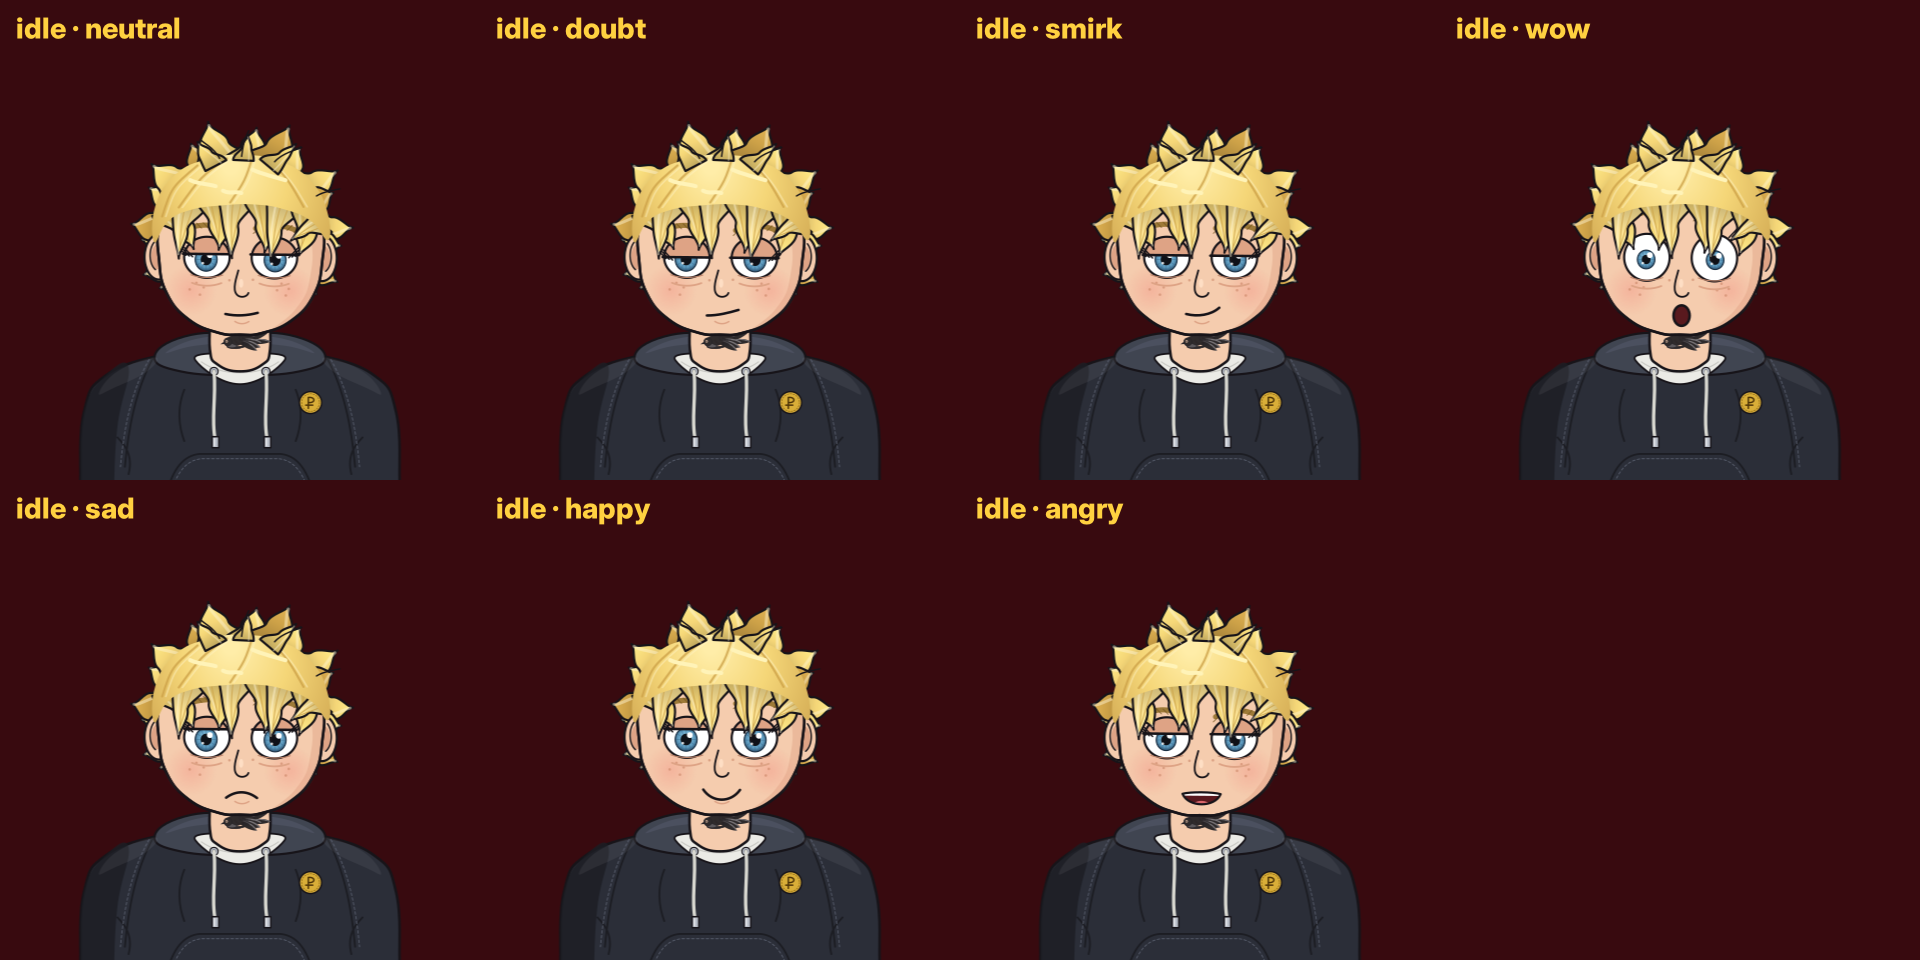
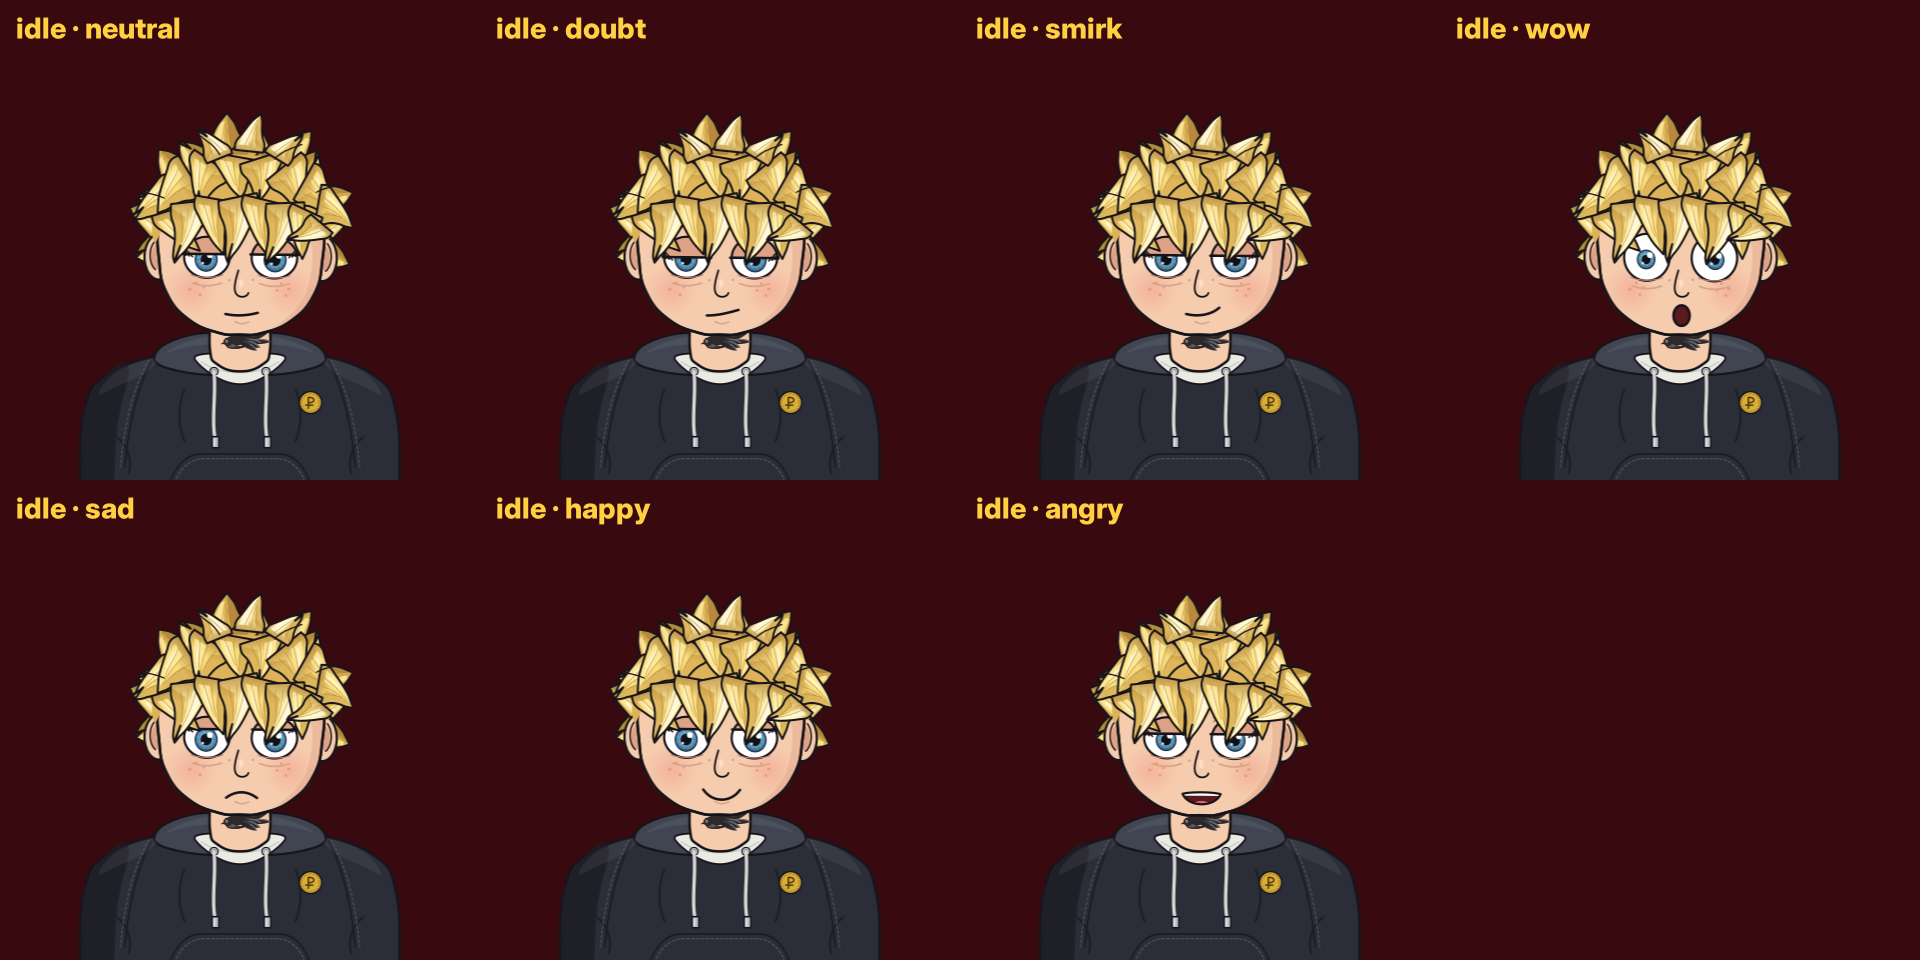
Narrator: hand-drawn ragged volumetric hair from layered cel-shaded clumps
Claude-Session: https://claude.ai/code/session_01Etcvs7yDvc4b4CGVjdTrvf

diff --git a/videos/narrator/narrator.py b/videos/narrator/narrator.py
@@ -428,86 +428,154 @@ def _lock(ctx, bx, by, ang, ln, wd, bend, fill, lw=6):
     ctx.stroke()
 
 
-# messy crown: (angle deg, length, width, bend) — uneven on purpose
-CROWN = [(-128, 95, 46, 30), (-112, 140, 52, -35), (-96, 120, 50, 40), (-80, 175, 58, -25), (-63, 150, 55, 50),
-         (-47, 205, 60, -40), (-30, 160, 56, 35), (-14, 230, 62, -55), (2, 185, 58, 45), (17, 240, 64, 60),
-         (33, 170, 56, -45), (49, 215, 60, 40), (64, 140, 54, -30), (80, 185, 56, 55), (97, 125, 50, -40),
-         (113, 150, 50, 35), (128, 90, 44, -25)]
+H_DEEP = (0.70, 0.52, 0.22)
+H_SHADOW = (0.86, 0.70, 0.34)
+H_BASE = (0.97, 0.86, 0.50)
+H_LIGHT = (1.0, 0.92, 0.62)
+H_SHINE = (1.0, 0.98, 0.86)
 
 
-def _hair_back(ctx, t, sway):
-    _ellipse(ctx, 0, -660, 240, 232)
-    _c(ctx, HAIR_SH)
+def _clump_path(ctx, bx, by, ang, ln, wd, bend, fork):
+    """Ragged tapered hair clump; fork > 0 splits the tip into two points."""
+    dx, dy = math.sin(ang), -math.cos(ang)
+    nx, ny = math.cos(ang), math.sin(ang)
+
+    def P(u, v):  # u along the clump 0..1, v across -1..1 (scaled by width that tapers)
+        w = wd * (1 - u ** 1.7) * (0.92 + 0.08 * math.sin(u * 9))
+        b = bend * u * u * 1.4
+        return (bx + dx * ln * u + nx * (v * w + b), by + dy * ln * u + ny * (v * w + b))
+    tipL = P(1.0, 0)
+    left = [P(u, -1) for u in (0.0, 0.2, 0.4, 0.6, 0.78, 0.9)]
+    right = [P(u, 1) for u in (0.9, 0.78, 0.6, 0.4, 0.2, 0.0)]
+    _smooth(ctx, left, closed=False)
+    if fork:
+        notch = P(0.8 - fork * 0.08, 0.2)
+        t2 = P(0.93, 0.6)
+        ctx.line_to(tipL[0] - nx * wd * 0.1, tipL[1] - ny * wd * 0.1)
+        ctx.line_to(*notch)
+        ctx.line_to(t2[0] + dx * ln * 0.05, t2[1] + dy * ln * 0.05)
+    else:
+        ctx.line_to(*tipL)
+    ctx.line_to(*right[0])
+    x0, y0 = right[0]
+    for k in range(len(right) - 1):  # smooth back along the right edge
+        p0 = right[max(0, k - 1)]
+        p1, p2 = right[k], right[k + 1]
+        p3 = right[min(len(right) - 1, k + 2)]
+        c1 = (p1[0] + (p2[0] - p0[0]) * 0.22, p1[1] + (p2[1] - p0[1]) * 0.22)
+        c2 = (p2[0] - (p3[0] - p1[0]) * 0.22, p2[1] - (p3[1] - p1[1]) * 0.22)
+        ctx.curve_to(c1[0], c1[1], c2[0], c2[1], p2[0], p2[1])
+    ctx.close_path()
+    return P
+
+
+def _clump(ctx, bx, by, ang, ln, wd, bend, fork=0, tone=0, lw=5.5, shade_side=1):
+    """Cel-shaded clump: base fill, shadow band on one side, light band, shine streak, inner strand lines, outline."""
+    base = (H_SHADOW, H_BASE, H_LIGHT)[tone]
+    P = _clump_path(ctx, bx, by, ang, ln, wd, bend, fork)
+    _c(ctx, base)
+    ctx.fill_preserve()
+    ctx.save()
+    ctx.clip()
+    # shadow band along one edge + darker root
+    s = shade_side
+    ctx.move_to(*P(0, s * 1.2))
+    for u in (0.25, 0.5, 0.75, 1.0):
+        ctx.line_to(*P(u, s * 0.25))
+    for u in (1.0, 0.75, 0.5, 0.25, 0.0):
+        ctx.line_to(*P(u, s * 1.3))
+    ctx.close_path()
+    _c(ctx, H_SHADOW if tone else H_DEEP, 0.9)
     ctx.fill()
-    for i, (ang, ln, wd, bend) in enumerate(CROWN):
-        a = math.radians(ang + sway * (1 + i % 3) + 2.5 * math.sin(t * 1.2 + i * 0.7))
-        bx, by = 205 * math.sin(a), -660 - 205 * math.cos(a)
-        _lock(ctx, bx, by, a, ln * 0.55, wd * 1.15, bend * 0.35 + 5 * math.sin(t * 1.5 + i), HAIR_SH if i % 3 == 0 else HAIR)
+    g = cairo.LinearGradient(*P(0, 0), *P(0.35, 0))
+    g.add_color_stop_rgba(0, H_DEEP[0], H_DEEP[1], H_DEEP[2], 0.75)
+    g.add_color_stop_rgba(1, H_DEEP[0], H_DEEP[1], H_DEEP[2], 0)
+    ctx.set_source(g)
+    ctx.paint()
+    # light band on the other side
+    ctx.move_to(*P(0.15, -s * 0.15))
+    for u in (0.35, 0.6, 0.85):
+        ctx.line_to(*P(u, -s * (0.05 + 0.1 * u)))
+    for u in (0.85, 0.6, 0.35, 0.15):
+        ctx.line_to(*P(u, -s * 0.75))
+    ctx.close_path()
+    _c(ctx, H_LIGHT if tone < 2 else H_SHINE, 0.85)
+    ctx.fill()
+    # shine streak
+    ctx.move_to(*P(0.22, -s * 0.45))
+    a, b = P(0.4, -s * 0.5), P(0.55, -s * 0.42)
+    ctx.curve_to(a[0], a[1], a[0], a[1], b[0], b[1])
+    _c(ctx, H_SHINE, 0.95)
+    ctx.set_line_width(max(2.5, wd * 0.09))
+    ctx.set_line_cap(cairo.LINE_CAP_ROUND)
+    ctx.stroke()
+    ctx.restore()
+    # inner strand lines
+    for v, u1 in ((-0.35, 0.82), (0.1, 0.92), (0.5, 0.7)):
+        a, b, c_ = P(0.12, v), P(0.5, v * 0.7), P(u1, v * 0.35)
+        ctx.move_to(*a)
+        ctx.curve_to(b[0], b[1], b[0], b[1], c_[0], c_[1])
+    _c(ctx, H_DEEP, 0.7)
+    ctx.set_line_width(2.2)
+    ctx.stroke()
+    _clump_path(ctx, bx, by, ang, ln, wd, bend, fork)
+    _c(ctx, OUT)
+    ctx.set_line_width(lw)
+    ctx.set_line_join(cairo.LINE_JOIN_ROUND)
+    ctx.stroke()
 
 
-FRINGE = [  # (base x, base y, angle rad (0=up, pi=down), length, width, bend, colour index)
-    (-200, -735, 2.80, 120, 44, -45, 0), (-140, -760, 3.00, 150, 50, 40, 1), (-75, -770, 3.30, 135, 48, -38, 0),
-    (-10, -775, 2.95, 160, 52, 50, 1), (55, -770, 3.40, 140, 48, -45, 0), (120, -760, 3.10, 155, 50, 38, 1),
-    (180, -740, 3.55, 120, 44, -40, 0), (220, -705, 3.80, 90, 36, 30, 1),
+# back silhouette: (angle deg from up, length, width, bend, fork)
+HAIR_BACK = [(-118, 120, 62, 26, 0), (-100, 160, 70, -30, 1), (-82, 190, 72, 34, 0), (-64, 175, 70, -28, 1),
+             (-46, 215, 74, 30, 0), (-28, 185, 70, -36, 1), (-10, 235, 76, 28, 0), (8, 200, 72, -30, 1),
+             (26, 245, 76, 40, 0), (44, 195, 72, -34, 1), (62, 215, 72, 30, 0), (80, 170, 68, -28, 1),
+             (98, 175, 66, 34, 0), (116, 120, 60, -24, 1)]
+# top layer: clumps flowing from the crown whorl over the skull towards the hairline
+HAIR_TOP = [(-185, -780, -1.75, 120, 62, -40, 1), (-140, -835, -2.15, 130, 66, -34, 0), (-80, -870, -2.55, 120, 64, -30, 1),
+            (-15, -885, -2.95, 110, 62, -26, 0), (50, -882, 2.85, 115, 62, 28, 1), (115, -860, 2.45, 125, 66, 32, 0),
+            (170, -820, 2.05, 120, 62, 36, 1), (210, -760, 1.7, 105, 56, 34, 0)]
+# spiky clumps standing up on the crown
+HAIR_SPIKES = [(-60, -880, -0.45, 95, 40, -18, 1), (20, -900, 0.05, 105, 42, 16, 0), (95, -880, 0.55, 95, 40, 20, 1)]
+FRINGE = [  # (base x, base y, angle rad (0=up, pi=down), length, width, bend, fork)
+    (-200, -735, 2.80, 130, 50, -45, 0), (-140, -760, 3.00, 160, 56, 40, 1), (-75, -770, 3.30, 145, 54, -38, 0),
+    (-10, -775, 2.95, 170, 58, 50, 1), (55, -770, 3.40, 150, 54, -45, 0), (120, -760, 3.10, 165, 56, 38, 1),
+    (180, -740, 3.55, 125, 50, -40, 0), (220, -705, 3.80, 95, 42, 30, 1),
 ]
 
 
+def _hair_back(ctx, t, sway):
+    _ellipse(ctx, 0, -665, 245, 235)
+    _c(ctx, H_DEEP)
+    ctx.fill()
+    for i, (ang, ln, wd, bend, fork) in enumerate(HAIR_BACK):
+        a = math.radians(ang + sway * (1 + i % 3) + 2.0 * math.sin(t * 1.2 + i * 0.7))
+        bx, by = 195 * math.sin(a), -665 - 195 * math.cos(a)
+        _clump(ctx, bx, by, a, ln * 0.62, wd, bend * 0.5 + 4 * math.sin(t * 1.5 + i), fork, 0,
+               shade_side=1 if ang < 0 else -1)
+
+
 def _hair_front(ctx, t, sway):
-    cols = (HAIR, (0.99, 0.89, 0.58))
-    for i, (bx, by, ang, ln, wd, bend, ci) in enumerate(FRINGE):
-        b = bend + sway * 8 + 5 * math.sin(t * 1.6 + i * 1.1)
-        a = ang + 0.03 * math.sin(t + i)
-        _lock(ctx, bx, by, a, ln, wd, b, cols[ci], 6)
-        dx, dy = math.sin(a), -math.cos(a)
-        nx, ny = math.cos(a), math.sin(a)
-        for off in (-0.25, 0.2):
-            ctx.move_to(bx + nx * wd * off, by + ny * wd * off)
-            ctx.curve_to(bx + dx * ln * 0.4 + nx * (b * 0.5 + wd * off), by + dy * ln * 0.4 + ny * (b * 0.5 + wd * off),
-                         bx + dx * ln * 0.7 + nx * b * 0.8, by + dy * ln * 0.7 + ny * b * 0.8,
-                         bx + dx * ln * 0.85 + nx * b * 0.9, by + dy * ln * 0.85 + ny * b * 0.9)
-        _c(ctx, HAIR_SH, 0.8)
-        ctx.set_line_width(3)
-        ctx.stroke()
-    # hair mass on the skull, filled without an outline so locks seem to grow out of it
+    # skull cover under the top clumps (no flat helmet visible: clumps sit on it edge to edge)
     _smooth(ctx, [(-236, -650), (-234, -748), (-180, -835), (-90, -878), (10, -890), (110, -872), (190, -820),
                   (234, -740), (238, -660), (190, -712), (120, -742), (40, -755), (-50, -752), (-140, -738),
                   (-200, -706)], closed=True)
-    g = cairo.RadialGradient(-30, -860, 20, 0, -780, 300)
-    g.add_color_stop_rgb(0, 1.0, 0.93, 0.66)
-    g.add_color_stop_rgb(0.45, *HAIR)
-    g.add_color_stop_rgb(1, 0.82, 0.66, 0.32)
-    ctx.set_source(g)
+    _c(ctx, H_SHADOW)
     ctx.fill()
-    # parting grooves between big locks on the top, for volume
-    for (x0, y0, x1, y1, x2, y2) in ((-40, -880, -110, -830, -170, -745), (30, -885, 10, -820, -30, -760),
-                                     (80, -875, 130, -820, 170, -750), (-120, -860, -190, -800, -215, -720)):
-        ctx.move_to(x0, y0)
-        ctx.curve_to(x1, y1, x1, y1, x2, y2)
-        _c(ctx, (0.80, 0.63, 0.28), 0.75)
-        ctx.set_line_width(6)
-        ctx.stroke()
-        ctx.move_to(x0 + 8, y0 + 4)
-        ctx.curve_to(x1 + 10, y1 + 4, x1 + 10, y1 + 4, x2 + 10, y2)
-        _c(ctx, (1, 0.96, 0.78), 0.5)
-        ctx.set_line_width(4)
-        ctx.stroke()
-    # locks sticking out of the top in odd directions
-    for i, (bx, by, ang, ln, wd, bend) in enumerate(((-70, -860, -0.55, 80, 32, -14), (75, -858, 0.65, 95, 32, 16),
-                                                    (5, -875, 0.05, 70, 28, 10))):
-        _lock(ctx, bx, by, ang + 0.06 * math.sin(t * 1.4 + i), ln, wd, bend, HAIR, 6)
-    # highlights
-    for (x0, y0, x1, y1) in ((-140, -820, -70, -804), (30, -850, 120, -822), (-50, -792, 0, -786)):
-        ctx.move_to(x0, y0)
-        ctx.curve_to(x0 + 20, y0 + 10, x1 - 20, y1 - 6, x1, y1)
-        _c(ctx, HAIR_HI)
-        ctx.set_line_width(11)
-        ctx.stroke()
-    # stray hairs
-    for (x0, y0, dx, dy) in ((-60, -880, -55, -50), (90, -872, 70, -40), (0, -886, 15, -70), (205, -780, 60, -20)):
+    for i, (bx, by, ang, ln, wd, bend, fork) in enumerate(HAIR_TOP):
+        _clump(ctx, bx, by, ang + 0.03 * math.sin(t * 1.1 + i), ln, wd, bend + sway * 5, fork, 1,
+               shade_side=-1 if bx < 0 else 1)
+    for i, (bx, by, ang, ln, wd, bend, fork) in enumerate(FRINGE):
+        b = bend + sway * 8 + 5 * math.sin(t * 1.6 + i * 1.1)
+        _clump(ctx, bx, by, ang + 0.03 * math.sin(t + i), ln, wd, b, fork, 2 if i % 2 else 1,
+               shade_side=1 if i % 2 else -1)
+    for i, (bx, by, ang, ln, wd, bend, fork) in enumerate(HAIR_SPIKES):
+        _clump(ctx, bx, by, ang + 0.06 * math.sin(t * 1.4 + i), ln, wd, bend, fork, 2, shade_side=-1 if ang < 0 else 1)
+    # a few loose strays
+    for (x0, y0, dx, dy) in ((-60, -890, -55, -50), (90, -880, 70, -40), (205, -790, 60, -20), (-210, -770, -55, -15)):
         ctx.move_to(x0, y0)
         ctx.curve_to(x0 + dx * 0.3, y0 + dy * 0.6, x0 + dx * 0.8, y0 + dy * 0.8, x0 + dx + 4 * math.sin(t * 2), y0 + dy)
         _c(ctx, OUT)
-        ctx.set_line_width(4)
+        ctx.set_line_width(3.5)
         ctx.stroke()
 
 

diff --git a/videos/narrator/README.md b/videos/narrator/README.md
@@ -7,7 +7,7 @@
 ## Внешность
 
 Молодой парень ~24 лет:
-- светлые рваные объёмные волосы, торчат в разные стороны;
+- светлые рваные объёмные волосы из отдельных прорисованных прядей в 3 слоя (тень, блик, внутренние линии, раздвоенные кончики), торчат в разные стороны;
 - чёрно-белая татуировка в стиле old school на шее: ласточка с перьями, растушёвкой точками и две морские звезды;
 - тёмное худи с двойной строчкой, люверсами, шнурками с металлическими наконечниками, нашивкой-монетой «₽» и карманом-кенгуру, под ним белая футболка; руки в объёмных рукавах;
 - голубые глаза с тяжёлыми веками — скептичный прищур; веснушки.
